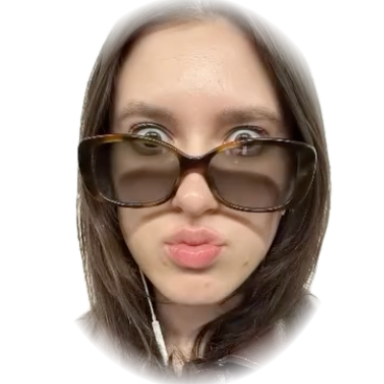
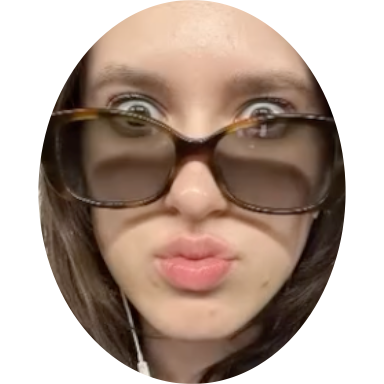
Add selfie booth, even oval faces and glass board to Confetti Chase
- Selfie booth: players can take a photo with their camera (mirrored
  preview, oval guide, 3-2-1 countdown) or upload one, and play as
  themselves. The photo is cropped into the same oval as the team,
  kept only in this browser's localStorage, and can be retaken or
  removed. The camera stops as soon as a photo is taken or the booth
  closes; blocked or missing cameras fall back to upload.
- With a selfie added, two chasers are picked at random from everyone
  except the player.
- Team faces re-cropped as identical ovals with the same face scale.
- Game board and overlays use the arcade's light glass instead of a
  dark tint.

diff --git a/app/globals.css b/app/globals.css
@@ -3,5 +3,7 @@
 
 .catalogue-back{display:inline-flex;align-items:center;gap:8px;padding:6px 14px;border-radius:var(--radius-pill);font-size:var(--type-size-subheading);line-height:1.5;letter-spacing:.18em;white-space:nowrap}.catalogue-back .arrow{letter-spacing:normal}.catalogue-back:hover{border-color:#ffffff66;transform:translateY(-1px)}
 
-.chase-page{text-align:center;padding-bottom:24px}.chase-hero{padding-bottom:40px}.chase-hero .eyebrow{margin-bottom:16px}.chase,.chase-select{max-width:760px;margin:0 auto}.chase-select{border-radius:var(--radius-card);padding:var(--text-inset)}.chase-select h2{margin:12px 0}.chase-roster{display:flex;justify-content:center;gap:20px;margin-top:28px;flex-wrap:wrap}.chase-pick{border-radius:50%;padding:12px;cursor:pointer;color:inherit;transition:transform .2s,border-color .2s}.chase-pick:hover,.chase-pick:focus-visible{transform:translateY(-4px);border-color:#ffffff80;outline:none}.chase-pick img{display:block;width:120px;height:120px}.chase-hud{display:flex;justify-content:center;gap:12px;margin-bottom:16px}.chase-stat{display:flex;flex-direction:column;align-items:center;min-width:110px;border-radius:24px;padding:10px 18px;font-size:1.1rem}.chase-stat .eyebrow{font-size:.65rem;opacity:.7}.chase-board{position:relative;border-radius:var(--radius-card);padding:20px;background:rgba(20,14,28,.42);outline:none;touch-action:none}.chase-board canvas{display:block;width:100%}.chase-overlay{position:absolute;inset:0;display:flex;flex-direction:column;align-items:center;justify-content:center;gap:10px;padding:24px;border-radius:var(--radius-card);background:rgba(38,52,47,.72);backdrop-filter:var(--glass-blur);-webkit-backdrop-filter:var(--glass-blur)}.chase-overlay p:not(.eyebrow){max-width:360px}.chase-overlay .button,.chase-actions .button{margin-top:12px;color:inherit;font:inherit;cursor:pointer}.chase-actions{display:flex;gap:12px;flex-wrap:wrap;justify-content:center}.chase-pad{display:none}.chase-help{margin-top:16px;opacity:.7;font-size:var(--type-size-subheading);letter-spacing:.08em}.chase-page>.button{margin-top:40px}@media(hover:none),(max-width:700px){.chase-pad{display:grid;grid-template-columns:repeat(3,56px);grid-template-areas:". up ." "left down right";gap:8px;justify-content:center;margin-top:16px}.chase-pad button{height:56px;border-radius:18px;color:inherit;font:inherit;font-size:1.2rem}.chase-pad button:nth-child(1){grid-area:up}.chase-pad button:nth-child(2){grid-area:left}.chase-pad button:nth-child(3){grid-area:down}.chase-pad button:nth-child(4){grid-area:right}}@media(max-width:700px){.chase-board{padding:10px;border-radius:24px}.chase-overlay{border-radius:24px}.chase-stat{min-width:0;flex:1;padding:8px 10px}.chase-pick img{width:84px;height:84px}}
+.chase-page{text-align:center;padding-bottom:24px}.chase-hero{padding-bottom:40px}.chase-hero .eyebrow{margin-bottom:16px}.chase,.chase-select{max-width:760px;margin:0 auto}.chase-select{border-radius:var(--radius-card);padding:var(--text-inset)}.chase-select h2{margin:12px 0}.chase-roster{display:flex;justify-content:center;gap:20px;margin-top:28px;flex-wrap:wrap}.chase-pick{border-radius:50%;padding:12px;cursor:pointer;color:inherit;transition:transform .2s,border-color .2s}.chase-pick:hover,.chase-pick:focus-visible{transform:translateY(-4px);border-color:#ffffff80;outline:none}.chase-pick img{display:block;width:120px;height:120px}.chase-hud{display:flex;justify-content:center;gap:12px;margin-bottom:16px}.chase-stat{display:flex;flex-direction:column;align-items:center;min-width:110px;border-radius:24px;padding:10px 18px;font-size:1.1rem}.chase-stat .eyebrow{font-size:.65rem;opacity:.7}.chase-board{position:relative;border-radius:var(--radius-card);padding:20px;outline:none;touch-action:none}.chase-board canvas{display:block;width:100%}.chase-overlay{position:absolute;inset:0;display:flex;flex-direction:column;align-items:center;justify-content:center;gap:10px;padding:24px;border-radius:var(--radius-card);background:rgba(38,52,47,.3);backdrop-filter:var(--glass-blur);-webkit-backdrop-filter:var(--glass-blur)}.chase-overlay p:not(.eyebrow){max-width:360px}.chase-overlay .button,.chase-actions .button{margin-top:12px;color:inherit;font:inherit;cursor:pointer}.chase-actions{display:flex;gap:12px;flex-wrap:wrap;justify-content:center}.chase-pad{display:none}.chase-help{margin-top:16px;opacity:.7;font-size:var(--type-size-subheading);letter-spacing:.08em}.chase-page>.button{margin-top:40px}@media(hover:none),(max-width:700px){.chase-pad{display:grid;grid-template-columns:repeat(3,56px);grid-template-areas:". up ." "left down right";gap:8px;justify-content:center;margin-top:16px}.chase-pad button{height:56px;border-radius:18px;color:inherit;font:inherit;font-size:1.2rem}.chase-pad button:nth-child(1){grid-area:up}.chase-pad button:nth-child(2){grid-area:left}.chase-pad button:nth-child(3){grid-area:down}.chase-pad button:nth-child(4){grid-area:right}}@media(max-width:700px){.chase-board{padding:10px;border-radius:24px}.chase-overlay{border-radius:24px}.chase-stat{min-width:0;flex:1;padding:8px 10px}.chase-pick img{width:84px;height:84px}}
 .chase-pad button,.chase-pick,.chase-overlay button{touch-action:manipulation}
+.chase-pick{position:relative}.chase-pick-tag{position:absolute;left:50%;bottom:-10px;transform:translateX(-50%);padding:2px 10px;border-radius:var(--radius-pill);background:#ffd36e;color:#26342f;font-size:.65rem;letter-spacing:.18em;text-transform:uppercase}.chase-add{display:flex;flex-direction:column;align-items:center;justify-content:center;width:146px;height:146px;font:inherit;font-size:var(--type-size-subheading);letter-spacing:.12em;text-transform:uppercase;border-style:dashed}.chase-add span{font-size:2rem;line-height:1;margin-bottom:4px}.chase-selfie-tools{display:flex;justify-content:center;gap:20px;margin-top:24px}.chase-selfie-tools button{background:none;border:0;padding:6px 0;color:inherit;font:inherit;text-decoration:underline;text-underline-offset:4px;cursor:pointer;opacity:.8}.chase-selfie-tools button:hover{opacity:1}
+.booth h2{margin:12px 0}.booth-view{position:relative;width:min(320px,100%);aspect-ratio:1;margin:24px auto 8px;border-radius:24px;overflow:hidden;background:rgba(0,0,0,.18)}.booth-view video,.booth-view img{display:block;width:100%;height:100%;object-fit:cover}.booth-view video{transform:scaleX(-1)}.booth-guide{position:absolute;top:0;bottom:0;left:10%;right:10%;border-radius:50%;border:2px solid #fff;box-shadow:0 0 0 999px rgba(38,52,47,.55);pointer-events:none}.booth-count{position:absolute;inset:0;display:grid;place-items:center;font-size:5rem;text-shadow:0 2px 24px rgba(0,0,0,.4)}.booth-note{position:absolute;inset:0;display:grid;place-items:center;padding:24px}.booth .button{color:inherit;font:inherit;cursor:pointer;touch-action:manipulation}.booth .button:disabled{opacity:.5;cursor:default}.booth-upload{position:relative}.booth-upload input{position:absolute;width:1px;height:1px;opacity:0}.booth-upload:focus-within{outline:2px solid #fff;outline-offset:4px}.booth-privacy{margin-top:20px;opacity:.7;font-size:var(--type-size-subheading)}@media(max-width:700px){.chase-add{width:110px;height:110px}}

diff --git a/components/SelfieBooth.tsx b/components/SelfieBooth.tsx
@@ -1,0 +1,120 @@
+"use client";
+import { useEffect, useRef, useState } from "react";
+
+// Same oval as the team photos: 0.8 aspect, filling the square's height.
+const SIZE = 320;
+const COUNTDOWN = 3;
+type Stage = "starting" | "live" | "countdown" | "review" | "error";
+
+// Takes a selfie (or an uploaded photo) and hands back an oval PNG data URL.
+export function SelfieBooth({ onSave, onCancel }: { onSave: (dataUrl: string) => void; onCancel: () => void }) {
+  const videoRef = useRef<HTMLVideoElement>(null);
+  const streamRef = useRef<MediaStream | null>(null);
+  const [stage, setStage] = useState<Stage>("starting");
+  const [count, setCount] = useState(COUNTDOWN);
+  const [shot, setShot] = useState<string | null>(null);
+  const [error, setError] = useState("");
+
+  const stopCamera = () => {
+    streamRef.current?.getTracks().forEach((track) => track.stop());
+    streamRef.current = null;
+  };
+  useEffect(() => stopCamera, []);
+
+  useEffect(() => {
+    if (stage !== "starting") return;
+    if (!navigator.mediaDevices?.getUserMedia) {
+      setError("This browser can't open the camera here. Upload a photo instead.");
+      setStage("error");
+      return;
+    }
+    let cancelled = false;
+    navigator.mediaDevices.getUserMedia({ video: { facingMode: "user", width: { ideal: 1280 }, height: { ideal: 960 } }, audio: false })
+      .then((stream) => {
+        if (cancelled) { stream.getTracks().forEach((track) => track.stop()); return; }
+        streamRef.current = stream;
+        const video = videoRef.current!;
+        video.srcObject = stream;
+        video.play().catch(() => { /* autoplay is muted, so this only fails if the booth closed */ });
+        setStage("live");
+      })
+      .catch((err: unknown) => {
+        if (cancelled) return;
+        const name = err instanceof DOMException ? err.name : "";
+        setError(name === "NotAllowedError" ? "Camera access is blocked. Allow it in your browser, or upload a photo instead."
+          : name === "NotFoundError" ? "No camera found. Upload a photo instead."
+          : "The camera couldn't start. Upload a photo instead.");
+        setStage("error");
+      });
+    return () => { cancelled = true; };
+  }, [stage]);
+
+  useEffect(() => {
+    if (stage !== "countdown") return;
+    if (count === 0) {
+      const video = videoRef.current;
+      if (video?.videoWidth) setShot(ovalCrop(video, video.videoWidth, video.videoHeight, true));
+      stopCamera();
+      setStage("review");
+      return;
+    }
+    const timer = setTimeout(() => setCount((c) => c - 1), 800);
+    return () => clearTimeout(timer);
+  }, [stage, count]);
+
+  const snap = () => { setCount(COUNTDOWN); setStage("countdown"); };
+  const retake = () => { setShot(null); setError(""); setStage("starting"); };
+  const upload = (file: File | undefined) => {
+    if (!file || !file.type.startsWith("image/")) return;
+    const url = URL.createObjectURL(file);
+    const img = new Image();
+    img.onload = () => {
+      setShot(ovalCrop(img, img.naturalWidth, img.naturalHeight, false));
+      URL.revokeObjectURL(url);
+      stopCamera();
+      setStage("review");
+    };
+    img.onerror = () => { URL.revokeObjectURL(url); setError("That file couldn't be read. Try a JPG or PNG."); setStage("error"); };
+    img.src = url;
+  };
+
+  return <section className="chase-select booth glass" aria-labelledby="booth-heading">
+    <p className="eyebrow">Selfie booth</p>
+    <h2 id="booth-heading">{stage === "review" ? "Looking good" : "Strike a pose"}</h2>
+    <p>{stage === "review" ? "Play as yourself, or try again." : "Line your face up with the oval."}</p>
+    <div className="booth-view">
+      {stage === "review" && shot
+        ? <img src={shot} alt="Your selfie" width={SIZE} height={SIZE}/>
+        : <>
+          <video ref={videoRef} muted playsInline aria-label="Camera preview" hidden={stage === "error"}/>
+          {stage !== "error" && <div className="booth-guide" aria-hidden="true"/>}
+          {stage === "starting" && <p className="booth-note" role="status">Opening camera…</p>}
+          {stage === "countdown" && <p className="booth-count" aria-live="assertive">{count}</p>}
+          {stage === "error" && <p className="booth-note" role="alert">{error}</p>}
+        </>}
+    </div>
+    <div className="chase-actions">
+      {stage === "review"
+        ? <><button type="button" className="button glass" onClick={() => shot && onSave(shot)}>Play as me</button><button type="button" className="button glass" onClick={retake}>Retake</button></>
+        : <button type="button" className="button glass" onClick={snap} disabled={stage !== "live"}>{stage === "countdown" ? "Smile…" : "Take photo"}</button>}
+      <label className="button glass booth-upload">Upload a photo<input type="file" accept="image/*" onChange={(e) => { upload(e.target.files?.[0]); e.target.value = ""; }}/></label>
+      <button type="button" className="button glass" onClick={() => { stopCamera(); onCancel(); }}>Cancel</button>
+    </div>
+    <p className="booth-privacy">Your photo stays in this browser. It isn&rsquo;t uploaded anywhere.</p>
+  </section>;
+}
+
+// Square crop into the shared oval (biased up on portrait photos, where faces sit high);
+// the camera is mirrored to match the preview.
+function ovalCrop(source: CanvasImageSource, width: number, height: number, mirror: boolean) {
+  const canvas = document.createElement("canvas");
+  canvas.width = canvas.height = SIZE;
+  const ctx = canvas.getContext("2d")!;
+  ctx.beginPath();
+  ctx.ellipse(SIZE / 2, SIZE / 2, SIZE * 0.4, SIZE * 0.5, 0, 0, Math.PI * 2);
+  ctx.clip();
+  if (mirror) { ctx.translate(SIZE, 0); ctx.scale(-1, 1); }
+  const side = Math.min(width, height);
+  ctx.drawImage(source, (width - side) / 2, (height - side) * 0.3, side, side, 0, 0, SIZE, SIZE);
+  return canvas.toDataURL("image/png");
+}

diff --git a/components/ConfettiChase.tsx b/components/ConfettiChase.tsx
@@ -1,14 +1,17 @@
 "use client";
-import { useCallback, useEffect, useRef, useState } from "react";
+import { useCallback, useEffect, useMemo, useRef, useState } from "react";
+import { SelfieBooth } from "@/components/SelfieBooth";
 import { useTickets } from "@/components/TicketProvider";
 import { createGame, isOpen, pause, progress, steer, step, togglePause, type DirName, type Game, type Mover, type Status } from "@/lib/confetti-chase";
 
-// Swap or add team photos here: transparent PNG head cutouts in public/game-1/.
+// Swap or add team photos here: 384px oval face crops (transparent corners) in public/game-1/.
 const TEAM = [
   { src: "/game-1/face-1.png", name: "Teammate 1" },
   { src: "/game-1/face-2.png", name: "Teammate 2" },
   { src: "/game-1/face-3.png", name: "Teammate 3" },
 ];
+const SELFIE_KEY = "hot-welcome-arcade:selfie";
+const CHASERS = 2;
 const POINTS_PER_TICKET = 100;
 const CONFETTI = ["#ffd36e", "#ff8fd1", "#8fe3ff", "#b6ff9e", "#ffffff"];
 const KEYS: Record<string, DirName> = {
@@ -27,10 +30,22 @@ export function ConfettiChase() {
   const [hero, setHero] = useState<number | null>(null);
   const [hud, setHud] = useState<Hud>({ score: 0, lives: 3, level: 1, status: "ready" });
   const [earned, setEarned] = useState(0);
+  const [selfie, setSelfie] = useState<string | null>(null);
+  const [booth, setBooth] = useState(false);
+  // A saved selfie joins the roster, so it can play or be one of the chasers.
+  const roster = useMemo(() => selfie ? [...TEAM, { src: selfie, name: "You" }] : TEAM, [selfie]);
 
   useEffect(() => {
-    facesRef.current = TEAM.map(({ src }) => Object.assign(new Image(), { src }));
+    try { setSelfie(localStorage.getItem(SELFIE_KEY)); } catch { /* storage blocked: the booth still works for this visit */ }
   }, []);
+  useEffect(() => {
+    facesRef.current = roster.map(({ src }) => Object.assign(new Image(), { src }));
+  }, [roster]);
+
+  const saveSelfie = (dataUrl: string | null) => {
+    setSelfie(dataUrl);
+    try { if (dataUrl) localStorage.setItem(SELFIE_KEY, dataUrl); else localStorage.removeItem(SELFIE_KEY); } catch { /* kept in memory only */ }
+  };
 
   const start = useCallback((index: number) => {
     gameRef.current = createGame();
@@ -45,7 +60,8 @@ export function ConfettiChase() {
     if (hero === null) return;
     const canvas = canvasRef.current!;
     const ctx = canvas.getContext("2d")!;
-    const chaserFaces = TEAM.map((_, i) => i).filter((i) => i !== hero);
+    // With more people than chaser spots, a random pair gives chase each time.
+    const chaserFaces = roster.map((_, i) => i).filter((i) => i !== hero).sort(() => Math.random() - 0.5).slice(0, CHASERS);
     let raf = 0, last = performance.now();
     const frame = (now: number) => {
       const game = gameRef.current!;
@@ -67,7 +83,7 @@ export function ConfettiChase() {
       window.removeEventListener("blur", away);
       document.removeEventListener("visibilitychange", onVisibility);
     };
-  }, [hero]);
+  }, [hero, roster]);
 
   // Tickets are paid out once per finished run.
   useEffect(() => {
@@ -112,14 +128,27 @@ export function ConfettiChase() {
   };
   const press = (dir: DirName) => { if (gameRef.current) steer(gameRef.current, dir); };
 
+  if (booth) {
+    return <SelfieBooth onCancel={() => setBooth(false)} onSave={(dataUrl) => { saveSelfie(dataUrl); setBooth(false); }}/>;
+  }
+
   if (hero === null) {
     return <section className="chase-select glass" aria-labelledby="select-heading">
       <p className="eyebrow">Choose your player</p>
       <h2 id="select-heading">Who&rsquo;s collecting the confetti?</h2>
-      <p>The other two will be right behind you.</p>
-      <div className="chase-roster">{TEAM.map((member, i) => <button type="button" key={member.src} className="chase-pick glass" onClick={() => start(i)} aria-label={`Play as ${member.name}`}>
+      <p>Two of the others will be right behind you.</p>
+      <div className="chase-roster">{roster.map((member, i) => <button type="button" key={member.name} className="chase-pick glass" onClick={() => start(i)} aria-label={`Play as ${member.name}`}>
         <img src={member.src} alt="" width={120} height={120}/>
-      </button>)}</div>
+        {member.name === "You" && <span className="chase-pick-tag">You</span>}
+      </button>)}
+        {!selfie && <button type="button" className="chase-pick chase-add glass" onClick={() => setBooth(true)}>
+          <span aria-hidden="true">+</span>Add yourself
+        </button>}
+      </div>
+      {selfie && <div className="chase-selfie-tools">
+        <button type="button" onClick={() => setBooth(true)}>Retake selfie</button>
+        <button type="button" onClick={() => saveSelfie(null)}>Remove my photo</button>
+      </div>}
     </section>;
   }
 
